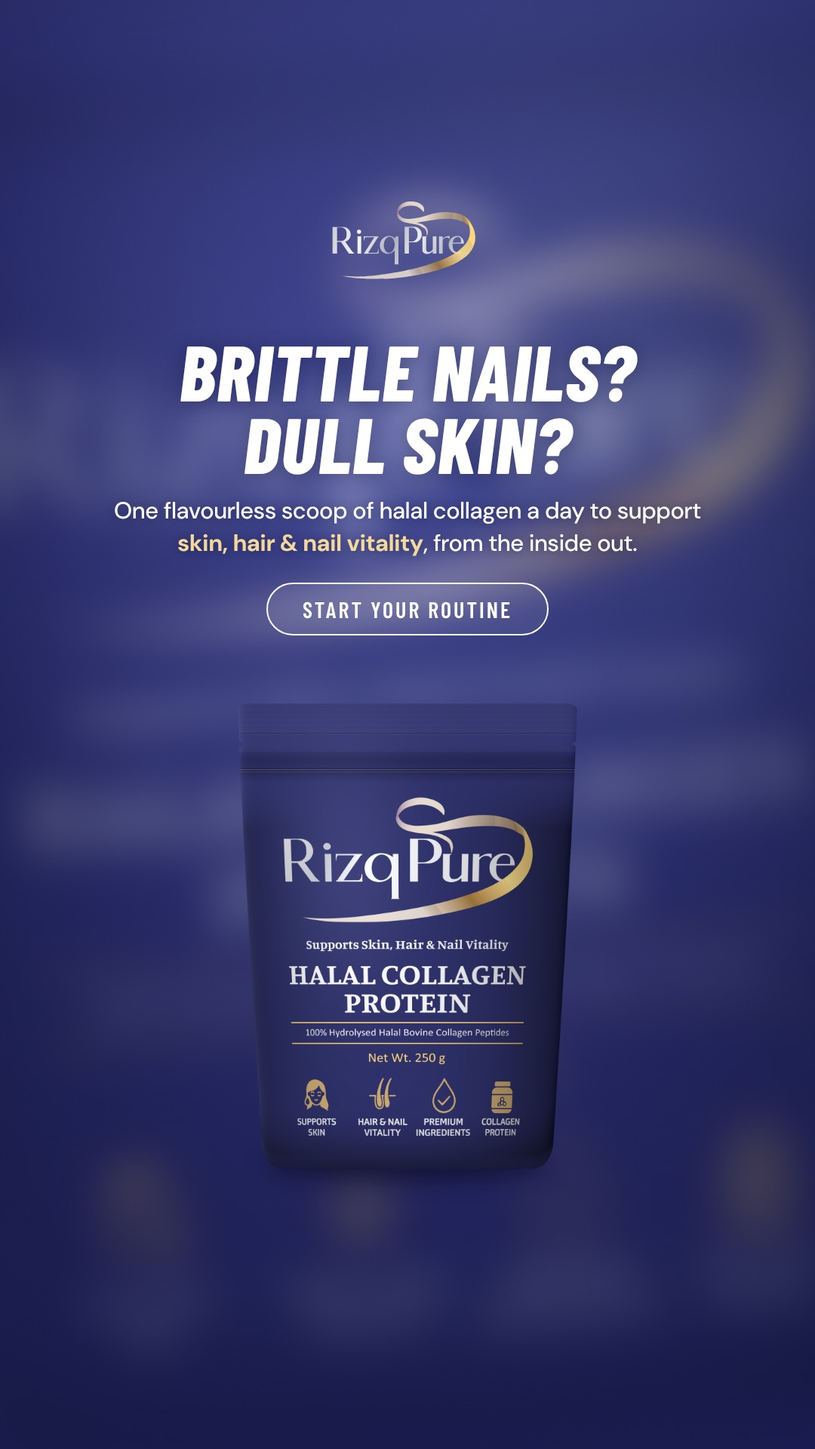
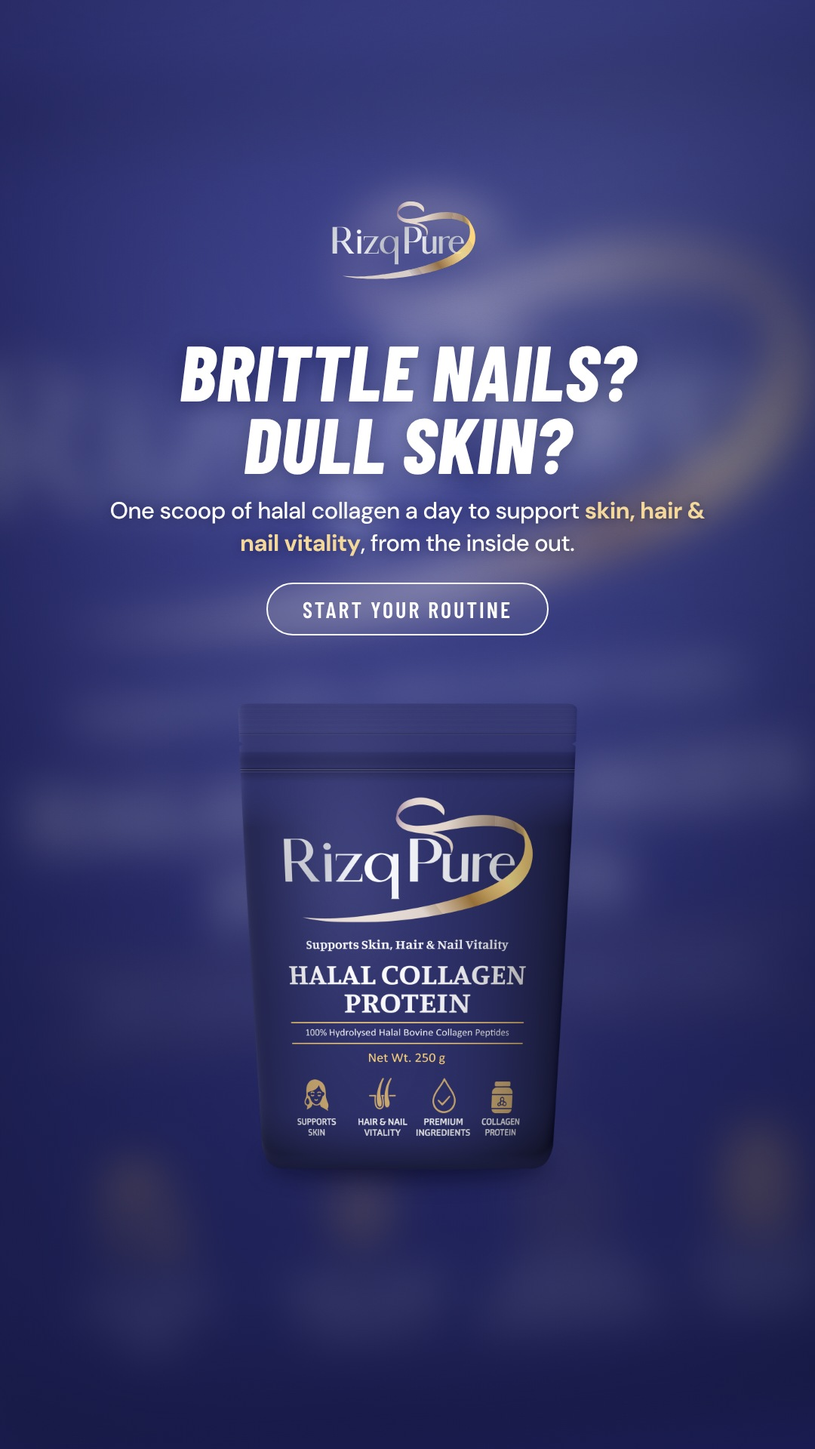
Refocus ads on founder-chosen angles; drop taste angle and charity figures
Claude-Session: https://claude.ai/code/session_01CE6U8ChmA1YQJvGR5Vti3i

Changed region(s): [[0.1222, 0.3438, 0.8556, 0.4062]]

diff --git a/rizqpure-brand-assets/static-ads/_source/remix2.js b/rizqpure-brand-assets/static-ads/_source/remix2.js
@@ -42,7 +42,7 @@ const ADS = {
       const x = 300 + Math.cos(a) * r * .9, y = 860 + Math.sin(a) * r, s = 3 + (i * 13 % 14);
       return `<div class="a" style="left:${x}px;top:${y}px;width:${s}px;height:${s}px;border-radius:50%;background:#fff;opacity:${.25 + (i % 5) * .12};filter:blur(${i % 3}px)"></div>`;
     }).join('');
-    const items = ["It doesn't name its halal certifier", 'It tastes fishy or chalky in your tea', 'It clumps the second it hits a cold drink', "It's full of sweeteners and fillers", "You're not sure if it's cow, fish… or pig"];
+    const items = ["It doesn't name its halal certifier", 'It clumps the second it hits your drink', "You're paying premium prices for a tiny dose", "It's full of sweeteners and fillers", "You're not sure if it's cow, fish… or pig"];
     return page(1080, 1350, 'linear-gradient(160deg,#C9D6F5 0%,#7F95DE 45%,#4B5BB8 100%)', `
       <div class="a" style="left:-80px;top:520px;width:760px;height:700px;border-radius:50%;background:radial-gradient(closest-side,rgba(255,255,255,.55),rgba(255,255,255,0));filter:blur(10px)"></div>
       ${dots}
@@ -62,6 +62,7 @@ const ADS = {
     const ic = {
       halal: '<path d="M12 3l7 3v5c0 4.5-3 8.2-7 10-4-1.8-7-5.5-7-10V6z"/><path d="M8.5 12l2.4 2.4 4.6-4.8"/>',
       drop: '<path d="M12 3c3.5 4.3 6 7.6 6 10.8A6 6 0 0 1 6 13.8C6 10.6 8.5 7.3 12 3z"/><path d="M9.2 14.5a2.9 2.9 0 0 0 2.8 2.6"/>',
+      hair: '<path d="M8 21c-1-5 1.5-8 1-12S7 4 8.5 3"/><path d="M12 21c-.5-5 2-8 1.5-12S12 4 13.5 3"/><path d="M16 21c0-5 2.5-7.5 2-11.5S17 4 18.5 3.5"/>',
       cup: '<path d="M5 9h11v5a5 5 0 0 1-5 5h-1a5 5 0 0 1-5-5z"/><path d="M16 11h1.5a2.5 2.5 0 0 1 0 5H16"/><path d="M9 3c-1 1.3 1 2 0 3.3M12.5 3c-1 1.3 1 2 0 3.3"/>',
     };
     const row = (k, t, y) => `<div class="a" style="left:70px;top:${y}px;display:flex;align-items:center;gap:30px">
@@ -71,11 +72,12 @@ const ADS = {
     return page(1080, 1080, 'radial-gradient(90% 80% at 75% 55%,#E8E9F7 0%,#D3D5EE 60%,#C3C6E6 100%)', `
       <div class="a" style="left:80px;right:80px;top:150px;height:116px;border-radius:60px;background:#fff;border:3px solid #1B1D3A;display:flex;align-items:center;gap:22px;padding:0 40px;white-space:nowrap">
         <svg width="46" height="46" viewBox="0 0 24 24" fill="none" stroke="#1B1D3A" stroke-width="2.6" stroke-linecap="round"><circle cx="10.5" cy="10.5" r="6.5"/><path d="M15.5 15.5 21 21"/></svg>
-        <div style="font-weight:500;font-size:37px;color:#1B1D3A">halal collagen that doesn't taste of anything</div></div>
-      <div class="a" style="top:292px;width:100%;text-align:center;font-weight:500;font-size:30px;color:#3A3D5C">RizqPure: the smarter daily scoop.</div>
-      ${row('halal', '100% Halal', 420)}${row('drop', 'Zero Taste', 590)}${row('cup', 'Hot or Cold', 760)}
+        <div style="font-weight:500;font-size:37px;color:#1B1D3A">halal collagen for glowing skin and fuller hair</div></div>
+      <div class="a" style="top:292px;width:100%;text-align:center;font-weight:500;font-size:30px;color:#3A3D5C">RizqPure: one scoop, a world of good.</div>
+      ${row('halal', '100% Halal', 420)}${row('drop', 'Glowing Skin*', 590)}${row('hair', 'Fuller Hair*', 760)}
       ${pouch(600, 380, 560, 8, .3)}
-      <div class="a" style="left:70px;bottom:56px;font-weight:600;font-size:56px;color:#1B1D3A">rizqpure.com</div>`);
+      <div class="a" style="left:70px;bottom:56px;font-weight:600;font-size:56px;color:#1B1D3A">rizqpure.com</div>
+      <div class="a" style="right:50px;bottom:30px;width:430px;text-align:right;font-size:16px;color:#3A3D5C;opacity:.8">*Supports skin &amp; hair vitality. Vitamin C contributes to normal collagen formation for the normal function of skin.</div>`);
   })()],
 
   // 4 ── AgeMate: whiteboard lesson
@@ -112,13 +114,23 @@ const ADS = {
         <div style="position:absolute;top:586px;left:0;right:0;text-align:center;font-family:Mono;font-size:16px;color:#333">THANK YOU!</div>
       </div>`;
     return page(1080, 1350, 'linear-gradient(180deg,#F7F6F3,#EFEDE8)', `
-      <div class="a" style="top:96px;width:100%;text-align:center;font-size:24px;color:#555;letter-spacing:1px">100% HALAL · 10% TO CHARITY</div>
+      <div class="a" style="top:96px;width:100%;text-align:center;font-size:24px;color:#555;letter-spacing:1px">100% HALAL · PART OF EVERY ORDER GOES TO CHARITY</div>
       <div class="a" style="top:150px;width:100%;text-align:center;font-family:'Playfair';font-weight:500;font-size:112px;letter-spacing:-3px;color:#16172E;transform:scaleY(1.08)">Same collagen.</div>
       <div class="a" style="top:288px;width:100%;text-align:center;font-family:'Playfair';font-style:italic;font-weight:500;font-size:112px;letter-spacing:-3px;color:#7A5530;transform:scaleY(1.08)">Different receipt.</div>
       ${receipt(120, '3 × SINGLE POUCH', '£60', '', '3 X RIZQPURE HALAL COLLAGEN 250G @ £20.00')}
       ${receipt(600, 'THE 3-PACK', '£51', '£60', '1 X RIZQPURE 3-PACK (3 X 250G) · YOU SAVED £9.00')}
       <div class="a" style="left:0;right:0;bottom:56px;text-align:center;font-weight:700;font-size:36px;color:#16172E">Same 3 pouches. £9 back in your pocket.</div>`);
   })()],
+  // 6 ── Charity: glow up, give back
+  'glow-up-give-back-1080x1350': [1080, 1350, page(1080, 1350, 'radial-gradient(90% 70% at 50% 62%,#FFF8EC 0%,#F6EBD8 55%,#EADBC0 100%)', `
+    <div class="a" style="top:84px;width:100%;text-align:center;font-family:'Playfair';font-weight:700;font-size:40px;color:${NAVY}">RizqPure</div>
+    <div class="a" style="top:160px;width:100%;text-align:center;font-family:'Playfair';font-weight:600;font-size:150px;line-height:1;letter-spacing:-4px;color:${NAVY}">Glow up.</div>
+    <div class="a" style="top:318px;width:100%;text-align:center;font-family:'Playfair';font-style:italic;font-weight:500;font-size:150px;line-height:1;letter-spacing:-4px;color:#9A6B2E">Give back.</div>
+    <div class="a" style="top:500px;left:150px;right:150px;text-align:center;font-weight:500;font-size:34px;line-height:1.4;color:#3B3A4A">Every scoop supports your skin, hair &amp; joints*.<br>Every order helps families in need.</div>
+    <div class="a" style="left:300px;top:700px;width:480px;height:480px;border-radius:50%;background:radial-gradient(closest-side,rgba(201,163,94,.35),rgba(201,163,94,0))"></div>
+    ${pouch(372, 660, 520, -5, .3)}
+    <div class="a" style="left:0;right:0;bottom:92px;text-align:center;font-weight:700;font-size:30px;letter-spacing:3px;color:${NAVY}">A PORTION OF EVERY ORDER GOES TO CHARITY</div>
+    <div class="a" style="left:120px;right:120px;bottom:36px;text-align:center;font-size:17px;color:#5A5868">*${CLAIM}</div>`)],
 };
 
 (async () => {

diff --git a/rizqpure-brand-assets/static-ads/_source/remix.js b/rizqpure-brand-assets/static-ads/_source/remix.js
@@ -36,21 +36,21 @@ const ADS = {
     <div style="position:absolute;left:300px;right:44px;top:262px;bottom:44px;background:#E6E4DF;border-radius:20px"></div>
     ${shadowed(56, 300, 660, -4, 2)}
     <div style="position:absolute;right:84px;top:288px;width:480px;text-align:right;color:${INDIGO};z-index:3">
-      ${[['100%', 'halal bovine collagen peptides. Nothing to second-guess'], ['0g', 'sugar, sweeteners or taste. It just disappears into your chai'], ['10%', 'of our profits go to Islamic Relief, every quarter'], ['80p', 'a day. Less than your morning coffee']]
+      ${[['100%', 'halal bovine collagen peptides. Nothing to second-guess'], ['10g', 'of collagen in every scoop, for skin, hair, nails &amp; joints*'], ['1', 'scoop a day. No pills, no clumps, no fuss'], ['80p', 'a day. Less than your morning coffee']]
       .map(([n, t]) => `<div style="margin-bottom:22px"><div style="font-family:'Archivo Black';font-size:74px;line-height:1">${n}</div>
         <div style="font-weight:500;font-size:26px;line-height:1.22;color:#3A3A44;margin-top:4px">${t}</div></div>`).join('')}
     </div>
-    <div style="position:absolute;right:84px;bottom:66px;width:470px;text-align:right;font-size:18px;color:#6B6B75;z-index:3;line-height:1.35">*Per 10 g serving. 80p/day based on a £20, 25-serving pouch.<br>Vitamin C contributes to normal collagen formation for the normal function of skin.</div>
+    <div style="position:absolute;right:84px;bottom:66px;width:470px;text-align:right;font-size:18px;color:#6B6B75;z-index:3;line-height:1.35">*Vitamin C contributes to normal collagen formation for the normal function of skin and cartilage.<br>80p/day based on a £20, 25-serving pouch. Part of every order goes to charity.</div>
   `)],
 
   // 3 ── Tier list meme
   'collagen-tier-list-1080x1080': [1080, 1080, (() => {
     const rows = [['S', '#F07C7C'], ['A', '#F5B57A'], ['B', '#F6E27A'], ['C', '#9BDA7C'], ['D', '#7CB6E8'], ['E', '#8E86D8'], ['F', '#D88AC9']];
     const items = {
-      A: [['Halal marine collagen', 'decent, but that fishy aftertaste']],
+      A: [['Halal marine collagen', 'good, but pricey for a small dose']],
       B: [['"Halal" label', 'no certifier named']],
       C: [['Collagen gummies', 'sugar + tiny dose']],
-      D: [['Flavoured powders', 'sweetener overload']],
+      D: [['Cheap bulk tubs', 'clumpy, gritty, uncertified']],
       E: [['Mystery-source collagen', 'cow? pig? who knows']],
       F: [['Porcine collagen', 'not for us']],
     };
@@ -64,7 +64,7 @@ const ADS = {
         <div style="flex:1;background:#1E1E26;border-radius:6px;display:flex;align-items:center;gap:12px;padding:0 10px">
           ${r === 'S' ? `<div style="height:${rh - 16}px;padding:0 22px 0 6px;border-radius:8px;background:linear-gradient(90deg,#2C2F66,#3D4290);border:2px solid ${GOLD};display:flex;align-items:center;gap:18px;color:#fff">
               <img src="${POUCH}" style="height:${rh - 22}px;transform:rotate(-8deg);filter:drop-shadow(0 6px 10px rgba(0,0,0,.5))">
-              <div><div style="font-weight:800;font-size:34px">RizqPure Halal Collagen</div><div style="font-size:22px;color:#E8D3A6;margin-top:4px">certified halal · tasteless · 10% to charity</div></div></div>`
+              <div><div style="font-weight:800;font-size:34px">RizqPure Halal Collagen</div><div style="font-size:22px;color:#E8D3A6;margin-top:4px">certified halal · no clumps · gives back</div></div></div>`
             : (items[r] || []).map(tile).join('')}
         </div></div>`).join('')}
       <div style="position:absolute;right:34px;bottom:6px;font-weight:600;font-size:22px;color:#fff;opacity:.85">@rizqpure</div>
@@ -89,14 +89,14 @@ const ADS = {
     <div style="position:absolute;inset:0;background:radial-gradient(90% 70% at 30% 25%,#26262B 0%,#0B0B0D 70%)"></div>
     <div style="position:absolute;left:110px;top:250px;color:#fff;font-weight:700;font-size:150px;letter-spacing:-4px;line-height:1">Zero stars.</div>
     <div style="position:absolute;left:112px;top:430px;display:flex;gap:26px">${'<svg width="104" height="104" viewBox="0 0 24 24" fill="none" stroke="#fff" stroke-width="1.3" stroke-linejoin="round"><path d="M12 2.8l2.8 5.9 6.4.8-4.7 4.4 1.2 6.4L12 17.1l-5.7 3.2 1.2-6.4-4.7-4.4 6.4-.8z"/></svg>'.repeat(5)}</div>
-    <div style="position:absolute;left:112px;top:620px;color:#fff;font-weight:500;font-size:66px;line-height:1.2">Couldn't even taste it.</div>
-    <div style="position:absolute;left:112px;top:715px;color:#fff;font-weight:500;font-size:66px">- Your morning coffee</div>
+    <div style="position:absolute;left:112px;top:620px;color:#fff;font-weight:500;font-size:66px;line-height:1.2">Would not recommend.</div>
+    <div style="position:absolute;left:112px;top:715px;color:#fff;font-weight:500;font-size:66px">- Your fine lines</div>
     <div style="position:absolute;left:112px;bottom:130px;display:flex;align-items:center;gap:28px">
       <div style="width:132px;height:132px;border-radius:30px;background:${INDIGO};overflow:hidden;display:flex;align-items:flex-start;justify-content:center;border:2px solid #3A3D7A">
         <img src="${POUCH}" style="height:190px;margin-top:6px"></div>
       <div style="color:#fff;font-weight:600;font-size:60px">RizqPure</div>
     </div>
-    <div style="position:absolute;left:0;right:0;bottom:44px;text-align:center;color:#8C8C96;font-size:22px">Unflavoured halal collagen. Dissolves in hot or cold drinks.</div>
+    <div style="position:absolute;left:0;right:0;bottom:44px;text-align:center;color:#8C8C96;font-size:22px">Halal collagen for skin that glows. Vitamin C contributes to normal collagen formation for the normal function of skin.</div>
   `)],
 };
 

diff --git a/rizqpure-brand-assets/static-ads/_source/ads.js b/rizqpure-brand-assets/static-ads/_source/ads.js
@@ -20,6 +20,9 @@ const ICONS = {
   crack: `<svg viewBox="0 0 100 100" fill="none" stroke="#fff" stroke-width="4.5" stroke-linecap="round" stroke-linejoin="round">
     <path d="M30 92V40c0-14 9-26 20-26s20 12 20 26v52"/><path d="M36 40c0-8 6-15 14-15s14 7 14 15"/>
     <path d="M50 25l-5 14 9 8-7 12 6 9"/><path d="M14 30 8 24M86 30l6-6M20 14l-4-7M80 14l4-7"/></svg>`,
+  hair: `<svg viewBox="0 0 100 100" fill="none" stroke="#fff" stroke-width="4.5" stroke-linecap="round" stroke-linejoin="round">
+    <path d="M30 90c-4-22 6-34 4-52s-8-24-2-30"/><path d="M46 92c-2-20 8-34 6-54s-6-24 0-30"/><path d="M62 90c0-20 10-32 8-52s-4-22 2-28"/>
+    <path d="M14 26l-6-4M86 26l6-4M18 12l-4-6M82 12l4-6"/></svg>`,
   cup: `<svg viewBox="0 0 100 100" fill="none" stroke="#fff" stroke-width="4.5" stroke-linecap="round" stroke-linejoin="round">
     <path d="M22 34h48v30c0 12-9 20-20 20h-8c-11 0-20-8-20-20z"/><path d="M70 42h6a10 10 0 0 1 0 20h-6"/>
     <path d="M36 14c-4 5 4 8 0 13M48 12c-4 5 4 8 0 13M60 14c-4 5 4 8 0 13"/><path d="M14 90 88 16"/></svg>`,
@@ -30,11 +33,11 @@ const ADS = [
     sub: 'Not every collagen tells you where it comes from. Ours is 100% hydrolysed <b>halal bovine</b> collagen peptides. Nothing to second-guess.',
     cta: 'Shop halal collagen', foot: 'Supports skin · hair · nails' },
   { key: 'brittle-nails', icon: 'crack', head: 'Brittle nails?<br>Dull skin?',
-    sub: 'One flavourless scoop of halal collagen a day to support <b>skin, hair &amp; nail vitality</b>, from the inside out.',
+    sub: 'One scoop of halal collagen a day to support <b>skin, hair &amp; nail vitality</b>, from the inside out.',
     cta: 'Start your routine', foot: '100% halal bovine collagen' },
-  { key: 'no-chalky-taste', icon: 'cup', head: 'Hate chalky<br>supplements?',
-    sub: 'Zero taste, zero clumps. Dissolves into your <b>coffee, tea or smoothie</b>, hot or cold. Your routine, just upgraded.',
-    cta: 'Shop now', foot: '10% of profits go to charity' },
+  { key: 'fuller-hair', icon: 'hair', head: 'Flat, thin<br>hair days?',
+    sub: 'One scoop of halal collagen a day to support <b>fuller-looking hair</b> and glowing skin. Stirs straight into your morning drink.',
+    cta: 'Start your routine', foot: 'Part of every order goes to charity' },
 ];
 
 function html(ad, W, H, mode) {

diff --git a/rizqpure-brand-assets/static-ads/AD-COPY.md b/rizqpure-brand-assets/static-ads/AD-COPY.md
@@ -1,94 +1,55 @@
-# RizqPure – Static Ads (Meta / Instagram)
+# RizqPure: Static Ads & Copy (Meta / Instagram)
 
-Three pain-point angles × two treatments × two sizes = 12 ads (PNG + JPG).
+## Brand angles (founder direction)
 
-- **teaser**: soft-focus pouch behind the text, styled like the "coming soon" reference. Best for cold audiences and pattern-interrupt.
-- **product**: the pouch is shown sharp under the CTA. Best for retargeting and conversion campaigns.
-- **feed-1080x1350** (4:5, Facebook/Instagram feed) · **story-1080x1920** (9:16, Stories/Reels). Story layouts keep
-  text and product out of the top 250 px and bottom 330 px, where the platform UI sits.
+| Use | Don't use |
+|---|---|
+| **Younger-looking skin** (fine lines, firmness) · **glowing skin** · **thicker, fuller-looking hair** · **joints** (prayer, kneeling, active life) · **convenience** (one scoop, mixes in, no pills) · **charity** ("a portion of every order goes to charity", **no figures**) | The taste / "flavourless" angle · charity percentages or named amounts |
 
-Claims only use wording from the pack ("supports skin, hair & nail vitality", "100% hydrolysed halal bovine
-collagen peptides", flavourless, hot or cold drinks, 10% of profits to charity). If you have a halal certificate,
-naming the certifier in the primary text ("Certified by …") usually lifts trust further.
+**Competitor problems to hit:** not halal (or no named certifier) · clumpy / gritty · expensive for the dose. (Generic categories only, never named brands.)
 
----
-
-## Angle 1: Halal certainty (`ad-halal-label-*`)
-**On image:** STILL CHECKING EVERY LABEL? · CTA: Shop halal collagen
-
-| Field | Copy | Chars |
-|---|---|---|
-| Primary text | Tired of reading the small print to find out where your collagen comes from? RizqPure is 100% hydrolysed halal bovine collagen peptides, so there's nothing to second-guess. | 172 (hook in first 125) |
-| Headline | Halal Collagen, No Guesswork | 28 |
-| Description | 100% halal bovine peptides | 26 |
-
-## Angle 2: Visible results (`ad-brittle-nails-*`)
-**On image:** BRITTLE NAILS? DULL SKIN? · CTA: Start your routine
-
-| Field | Copy | Chars |
-|---|---|---|
-| Primary text | Brittle nails and dull skin? One flavourless scoop of RizqPure Halal Collagen a day supports skin, hair & nail vitality. Just stir it into your morning drink. | 158 (hook in first 125) |
-| Headline | Your Daily Halal Collagen Scoop | 31 |
-| Description | Supports skin, hair & nails | 27 |
-
-## Angle 3: Taste and routine (`ad-no-chalky-taste-*`)
-**On image:** HATE CHALKY SUPPLEMENTS? · CTA: Shop now
-
-| Field | Copy | Chars |
-|---|---|---|
-| Primary text | If chalky powders put you off supplements, this one won't. RizqPure is flavourless and dissolves into coffee, tea or smoothies, hot or cold. And 10% of profits go to charity. | 174 (hook in first 125) |
-| Headline | Flavourless Halal Collagen | 26 |
-| Description | Mixes into any drink | 20 |
+**Claims guard-rail (UK):** pair benefit headlines with "supports…" wording and the authorised line *"Vitamin C contributes to normal
+collagen formation for the normal function of skin [and cartilage]."* The hair and anti-ageing angles carry the most ASA / Meta
+review risk, so keep them as *aspirations* ("fuller-looking", "younger-looking", "your fine lines won't like it"), never as guaranteed results.
 
 ---
 
-## Suggested test
-Run all three angles as **teaser** creative in one ad set for about 1,000+ impressions each, then compare CTR.
-Move the winning angle's **product** version into retargeting. Change one variable per round (angle first, then treatment).
+## 1. Pain-point set (`ad-<angle>-<teaser|product>-<feed|story>`)
+Teaser = soft-focus pouch behind the text (cold audiences). Product = sharp pouch (retargeting). Feed 1080×1350, story 1080×1920.
 
-Regenerate or edit: `_source/ads.js` (copy is in the `ADS` array); `node ads.js out`.
+| Angle | On image | Primary text | Headline | Description |
+|---|---|---|---|---|
+| `halal-label` | STILL CHECKING EVERY LABEL? | Tired of reading the small print to find out where your collagen comes from? RizqPure is 100% hydrolysed halal bovine collagen peptides. Nothing to second-guess. | Halal Collagen, No Guesswork | 100% halal bovine peptides |
+| `brittle-nails` | BRITTLE NAILS? DULL SKIN? | Brittle nails and dull skin? One scoop of RizqPure Halal Collagen a day supports skin, hair & nail vitality. Vitamin C contributes to normal collagen formation for the normal function of skin. | Your Daily Halal Collagen Scoop | Supports skin, hair & nails |
+| `fuller-hair` | FLAT, THIN HAIR DAYS? | Your fuller-hair era starts with one scoop. RizqPure Halal Collagen supports hair and skin vitality, and stirs straight into your morning drink. Part of every order goes to charity. | Fuller-Looking Hair, Daily | Halal collagen + Vitamin C |
 
----
-
-# "…is calling" ads (`calling-ads/`)
-
-Your pouch floats on a soft rose-violet silk background with phone-style **Decline / Accept** buttons. It plays on
-the instinct to answer a call, and the "Accept" makes the ad feel like a choice. Sizes: square 1080×1080
-(the reference format), feed 1080×1350, story 1080×1920.
-
-| File | On image | Primary text (suggested) | Headline |
+## 2. "…is calling" (`calling-ads/`)
+| File | On image | Primary text | Headline |
 |---|---|---|---|
-| `ad-calling-halal-glow-up-*` | Your halal glow-up is calling... | Your glow-up is on line one. RizqPure is 100% hydrolysed halal bovine collagen that supports skin, hair & nail vitality. Will you pick up? | Answer With RizqPure |
-| `ad-calling-stronger-hair-nails-*` | Stronger hair & nails are calling... | One flavourless scoop a day, stirred into your coffee or tea. Halal collagen that supports hair & nail vitality. Don't leave them on hold. | Halal Collagen, Daily |
-| `ad-calling-collagen-you-can-trust-*` | Collagen you can trust is calling... | No more guessing what's in your collagen. 100% hydrolysed halal bovine peptides, and 10% of profits go to charity. | Collagen You Can Trust |
+| `halal-glow-up` | Your halal glow-up is calling... | Your glow-up is on line one. RizqPure is 100% hydrolysed halal bovine collagen that supports skin, hair & nail vitality. Will you pick up? | Answer With RizqPure |
+| `stronger-hair-nails` | Stronger hair & nails are calling... | One scoop a day, stirred into your coffee or tea. Halal collagen that supports hair & nail vitality. Don't leave them on hold. | Halal Collagen, Daily |
+| `collagen-you-can-trust` | Collagen you can trust is calling... | No more guessing what's in your collagen. 100% hydrolysed halal bovine peptides, and part of every order goes to charity. | Collagen You Can Trust |
 
-Source: `_source/calling.js` (headlines in the `ADS` array), pouch cut-out `_source/pouch.png`.
+## 3. Proven formats (`proven-formats/`)
 
----
+| File | Format & lever | Primary text | Headline |
+|---|---|---|---|
+| `ad-dont-be-a-mug` | Hismile shock word. **Loss aversion:** paying full price = the mug's move | Don't be a mug. Put RizqPure in one instead 😉 Buy 3 pouches for £51 and save £9: about 11 weeks of your daily halal collagen ritual. | Buy 3, Save £9 |
+| `ad-face-the-facts` | Squatch big numbers. **Confident proof** | 100% halal. 10 g of collagen per scoop. One scoop a day, no clumps. 80p a day. Enough said. | Halal Collagen, Facts Only |
+| `ad-collagen-tier-list` | Tier-list meme. **Native content + debate bait** (generic categories: pricey marine, uncertified, gummies, clumpy bulk tubs, mystery source, porcine) | We ranked collagen so you don't have to. Where does yours sit? 👇 | The Halal Collagen Tier List |
+| `ad-1-scoop-does-both` | Venn. **Two pains, one fix**: skin + joints for prayer | Glowing skin and comfortable joints for every sujood. One scoop of halal collagen in your morning drink. | One Scoop. Skin + Joints. |
+| `ad-zero-stars` | Inverted review. **The "enemy" hates it**: "Would not recommend. – Your fine lines" | Our harshest critics? Your fine lines. RizqPure halal collagen: Vitamin C contributes to normal collagen formation for the normal function of skin. | Your Fine Lines Hate Us |
+| `ad-what-your-body-needs-daily` | Sunbase editorial Venn. **Premium "system"** | Halal you can trust, skin that glows, joints for prayer, and one scoop instead of ten pills. Nourishment, made simple. | Your Daily Halal Collagen |
+| `ad-5-signs-wrong-collagen` | Goodnight Tape checklist. **Self-diagnosis**: not certified, clumps, overpriced, fillers, mystery source | How many of these does your collagen tick? Even one is a sign to switch to certified halal collagen. | Switch to Halal Collagen |
+| `ad-search-bar` | Altiva search bar. **Mirrors their own search**: "halal collagen for glowing skin and fuller hair" | Searched for halal collagen for glowing skin and fuller hair? Found it. One scoop a day, hot or cold. | The Halal Collagen You Searched For |
+| `ad-whiteboard-collagen-decline` | AgeMate whiteboard. **Lesson + decline graph** (anti-ageing urgency) | Your body makes less collagen every year from your mid-20s. Give it the building blocks: one scoop of halal collagen with Vitamin C, daily. | Support Your Collagen Formation |
+| `ad-same-collagen-different-receipt` | Dupe receipts. **Physical saving** (3 singles £60 vs 3-pack £51) | Same three pouches. £9 less. The 3-pack is the smartest way to start your halal collagen ritual. | 3-Pack: Save £9 |
+| `ad-glow-up-give-back` | Editorial serif. **Purpose purchase**: "Glow up. Give back." | Glow up, give back. Every scoop supports your skin, hair & joints, and a portion of every order goes to charities helping families in need. | Glow Up. Give Back. |
 
-# Proven-format remixes (`proven-formats/`)
+## Testing order (suggested)
+1. **Cold:** `zero-stars` (anti-ageing), `fuller-hair` teaser, `1-scoop-does-both` (joints), `5-signs` (switchers), `glow-up-give-back` (values). One ad set, ~1,000+ impressions each, compare CTR.
+2. **Warm / retargeting:** `same-collagen-different-receipt`, `dont-be-a-mug` (3-pack offer), product versions of the winners.
+3. Change one variable per round (angle, then format, then offer).
 
-| File | Based on | Psychological lever | Primary text (suggested) | Headline |
-|---|---|---|---|---|
-| `ad-dont-be-a-mug-1080x1350` | Hismile "Don't Be An IDIOT." | **Pattern interrupt + loss aversion.** A giant cheeky word stops the scroll, and paying full price becomes the "foolish" choice. "Mug" is British slang for a fool *and* where your collagen goes. | Don't be a mug. Put RizqPure in one instead 😉 Buy 3 pouches for £51 and save £9. That's about 11 weeks of your daily halal collagen ritual. | Buy 3, Save £9 |
-| `ad-face-the-facts-1080x1080` | Dr. Squatch "Face the Facts" | **Specific numbers + confident brevity.** "Enough said..." signals there's nothing to argue with. Every number is a verifiable product fact, not an invented survey. | 100% halal. 0 g sugar. 10% of profits to Islamic Relief. 80p a day. Enough said. | Halal Collagen, Facts Only |
-| `ad-collagen-tier-list-1080x1080` | Hershey's tier list | **Native meme + debate bait.** It looks like content, not an ad, and people comment to disagree, which boosts reach. Ranks generic categories only (no named competitors). | We ranked collagen so you don't have to. Where does yours sit? 👇 | The Halal Collagen Tier List |
-| `ad-1-scoop-does-both-1080x1350` | Dog is Human Venn | **Two pains, one simple fix.** The Venn diagram makes "one product, two benefits" obvious at a glance. Uses "supports" + the authorised Vitamin C claim. | Glowing skin and comfortable joints for every sujood. One unflavoured scoop in your chai or coffee. | One Scoop. Skin + Joints. |
-| `ad-zero-stars-1080x1350` | Bible App "Zero stars – Satan" | **Inverted testimonial.** A "bad review" from your coffee is funny *and* proves the product is tasteless. | Our harshest critic? Your morning coffee. It couldn't even taste us. Unflavoured halal collagen that disappears into any drink. | Your Coffee Hates Us |
-
-Before running: confirm the Vitamin C amount is ≥ 12 mg per 10 g scoop (needed for the claim line), confirm "10% of profits"
-vs "10% of every purchase" (site and pack differ), and confirm the £20 / £51 prices.
-
-## Round 2
-
-| File | Based on | Psychological lever | Primary text (suggested) | Headline |
-|---|---|---|---|---|
-| `ad-what-your-body-needs-daily-1080x1350` | Sunbase 4-circle Venn | **Editorial "system" framing.** The product sits where every daily need overlaps; the calm, minimal look signals a premium brand. | Halal you can trust, skin that glows, joints for prayer, and one scoop instead of ten pills. Nourishment, made simple. | Your Daily Halal Collagen |
-| `ad-5-signs-wrong-collagen-1080x1350` | Goodnight Tape "5 signs" | **Self-diagnosis checklist.** Viewers mentally tick each sign against their current brand, which creates doubt and the urge to switch. | How many of these does your collagen tick? If it's even one, it's time to switch to certified halal collagen that disappears into any drink. | Switch to Halal Collagen |
-| `ad-search-bar-1080x1080` | Altiva search bar | **Mirrors the viewer's own search.** The ad looks like the answer to a question they've already typed. | Searched for "halal collagen that doesn't taste of anything"? Found it. Unflavoured, halal, mixes hot or cold. | The Halal Collagen You Searched For |
-| `ad-whiteboard-collagen-decline-1080x1080` | AgeMate whiteboard | **Hand-drawn "lesson" + a decline graph.** It feels like education, not advertising, and the falling line creates gentle urgency. | Your body makes less collagen every year from your mid-20s. Give it the building blocks: one scoop of halal collagen with Vitamin C, daily. | Support Your Collagen Formation |
-| `ad-same-collagen-different-receipt-1080x1350` | "Same smell, different receipt" | **Receipt comparison.** Turns an abstract discount into a physical, side-by-side saving, pushing buyers to the 3-pack and a bigger basket. | Same three pouches. £9 less. The 3-pack is the smartest way to start your 11-week halal collagen ritual. | 3-Pack: Save £9 |
-
-Notes: "about 1% a year from your mid-20s" is a widely cited general estimate of natural collagen decline. Keep the "about"
-and don't present it as a RizqPure result. The receipt ad compares your *own* prices only (3 singles vs the 3-pack),
-which avoids competitor-comparison rules.
+Before running: confirm Vitamin C is ≥ 12 mg per 10 g scoop (needed for the claim line) and that £20 / £51 are the live prices.
+Source files: `_source/` (`ads.js`, `calling.js`, `remix.js`, `remix2.js`); copy lives in each file's ad definitions.

diff --git a/rizqpure-brand-assets/BRAND-ANALYSIS.md b/rizqpure-brand-assets/BRAND-ANALYSIS.md
@@ -5,6 +5,16 @@ artwork, the prices you supplied, and market and scientific research. Sources ar
 
 ---
 
+## 0. Founder direction (October 2026), overrides earlier recommendations where they differ
+
+- **Lead angles:** younger-looking skin · glowing skin · thicker, fuller-looking hair · joints (prayer) · convenience · charity.
+- **Drop:** the taste / "flavourless" angle in ads.
+- **Charity wording:** "a portion of every order goes to charity". **No percentages or figures** in ads.
+- **Competitor problems to hit:** not halal / no named certifier · clumpy · expensive for the dose.
+- Prices: £20 single · £36 for 2 · £51 for 3.
+
+---
+
 ## 1. Brand snapshot
 
 | | |
